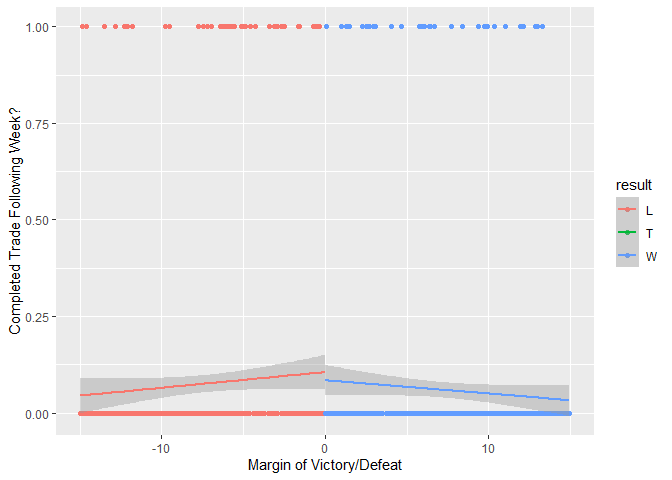
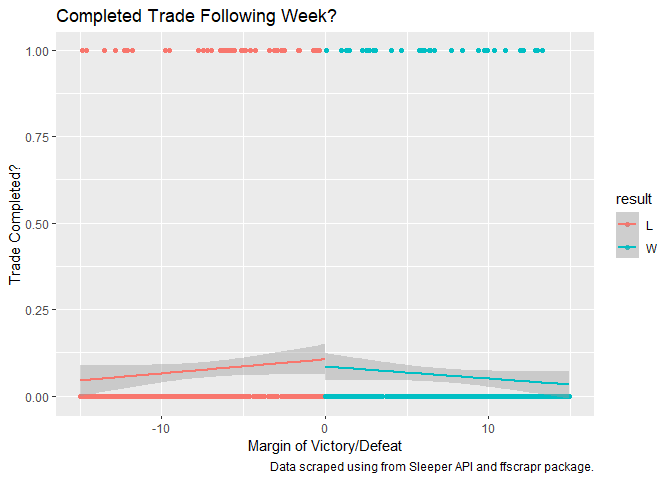
updated analysis

diff --git a/README.md b/README.md
@@ -13,22 +13,94 @@ close wins.
 ### Data
 
 Data is scraped from Sleeper, a popular fantasy football platform, for a
-sample of leagues. The script `etl_sample_data.R` extracts the data from
-Sleeper, transforms it into a series of clean data sets, and loads it
-into clean CSV files.
+sample of 42 leagues in 2022. The script `etl_sample_data.R` extracts
+the data from Sleeper, transforms it into a series of clean data sets,
+and loads it into clean CSV files including data on schedules
+`schedule_dat.csv`, league summaries `summary_dat.csv`, and transactions
+(incuding trades) `transactions_dat.csv`.
 
-### Analysis
+### Analysis of Sample Data
 
-``` r
-dat_reg %>%
-  filter(abs(points_margin) < 15) %>%
-  ggplot(aes(points_margin,trade_indicator,color = result)) +
-  geom_point() +
-  geom_smooth(formula = y ~ x,method="lm") +
-  xlab("Margin of Victory/Defeat") + ylab("Completed Trade Following Week?")
-```
+To understand the relative impact of close losses on trade behavior
+compared to close wins, I use a regression discontinuity design to
+leverage the as-if random assignment of result status (win/loss) on
+whether a player completes a trade on the following week. I reduce my
+analysis to just games during the first 8 weeks of season as leagues may
+instead
+
+First, the plots below suggest that a relationship may exist, but that
+some caution should be used when moving to the regression analysis. In
+the plot below, each point represents an outcome that was decided by
+less than 15 points. The y-axis takes the value of 0 if a player did not
+complete a trade during the following week and takes a value of 1 if so.
+The relationship between close wins and losses is not immediately
+obvious.
 
 ![](README_files/figure-gfm/unnamed-chunk-2-1.png)<!-- -->
+
+The plot below instead bins outcomes outcomes to the nearest whole
+point. Now points along the y-axis are the proportion of outcomes in
+that bin that completed a trade during the following week. The results
+are more clear than in the previous plot and suggest that a small
+difference between close winners and losers may exist, with close losers
+trading about 2pp more than close winners. But this should be
+interpreted with caution as the standard errors are fairly large and the
+difference does not appear to be statistically insignificant.
+
+![](README_files/figure-gfm/unnamed-chunk-3-1.png)<!-- -->
+
+I next move to the regression analysis. I use the `rdrobust` package to
+determine the optimal bandwidth, which comes out to be 69.38. I then
+calculate the kernel weights as proportional to the cutoff vis-a-vis the
+bandwidth. For the regression, I control for the team’s total number of
+points scored, as higher scoring teams may be less likely to trade. I
+also include league and week number fixed effects to account for any
+idiosyncratic differences across different leagues (such as any personal
+relationships that may exist) and differences in trade behavior that may
+exist week to week. Finally, I cluster standard errors by team to
+account for team specific trade behavior. I estimate the following
+equation for team $i$, league $L$, and week $w$:
+
+$T_{w+1,i} = \beta_0 + \beta_1*Margin_{w,i} + \beta_2*Win_{w,i} + \beta_3*(Margin*Win)_{w,i} + \beta_4*Score_{w,i} + \gamma_L + \alpha_w$
+
+I get the following results:
+
+    ## 
+    ## Call:
+    ##    felm(formula = trade_indicator ~ points_margin + I(points_margin >      0) + I(points_margin > 0) * points_margin + franchise_score |      league_id + week | 0 | franchise_id, data = subset(dat_reg,      dat_reg$kw > 0), weights = subset(dat_reg, dat_reg$kw > 0)$kw) 
+    ## 
+    ## Weighted Residuals:
+    ##      Min       1Q   Median       3Q      Max 
+    ## -0.38821 -0.06800 -0.03462 -0.00685  0.97605 
+    ## 
+    ## Coefficients:
+    ##                                          Estimate Cluster s.e. t value Pr(>|t|)
+    ## points_margin                          -0.0000592    0.0004370  -0.135    0.892
+    ## I(points_margin > 0)TRUE               -0.0180221    0.0118933  -1.515    0.130
+    ## franchise_score                         0.0001051    0.0002390   0.440    0.660
+    ## points_margin:I(points_margin > 0)TRUE  0.0003768    0.0007864   0.479    0.632
+    ## 
+    ## Residual standard error: 0.1973 on 3607 degrees of freedom
+    ## Multiple R-squared(full model): 0.08591   Adjusted R-squared: 0.07273 
+    ## Multiple R-squared(proj model): 0.0007711   Adjusted R-squared: -0.01363 
+    ## F-statistic(full model, *iid*):6.519 on 52 and 3607 DF, p-value: < 2.2e-16 
+    ## F-statistic(proj model): 0.6176 on 4 and 31 DF, p-value: 0.6533
+
+As the descriptive analysis suggested, we cannot reject the null
+hypothesis that close winners and losers trade at different rates during
+the following week. But the p-value is 0.13 and is almost statistically
+significant at conventional levels. Furthermore, given that players
+trade 7.47 percent of the time, an increase in trade activity by 1.8pp
+is fairly large.
+
+### Conclusion
+
+Further data will need to gathered before we can be confident with the
+results. Next steps will include scraping additional data. Additional
+analysis to understand the *quality* of trades will also be an important
+next step. If my theory is correct, then not only could it suggest that
+people are more sensitive to relative losses (in line with existing
+literature), but also that they make worse decisions as a result.
 
 ### Questions or Comments?
 
